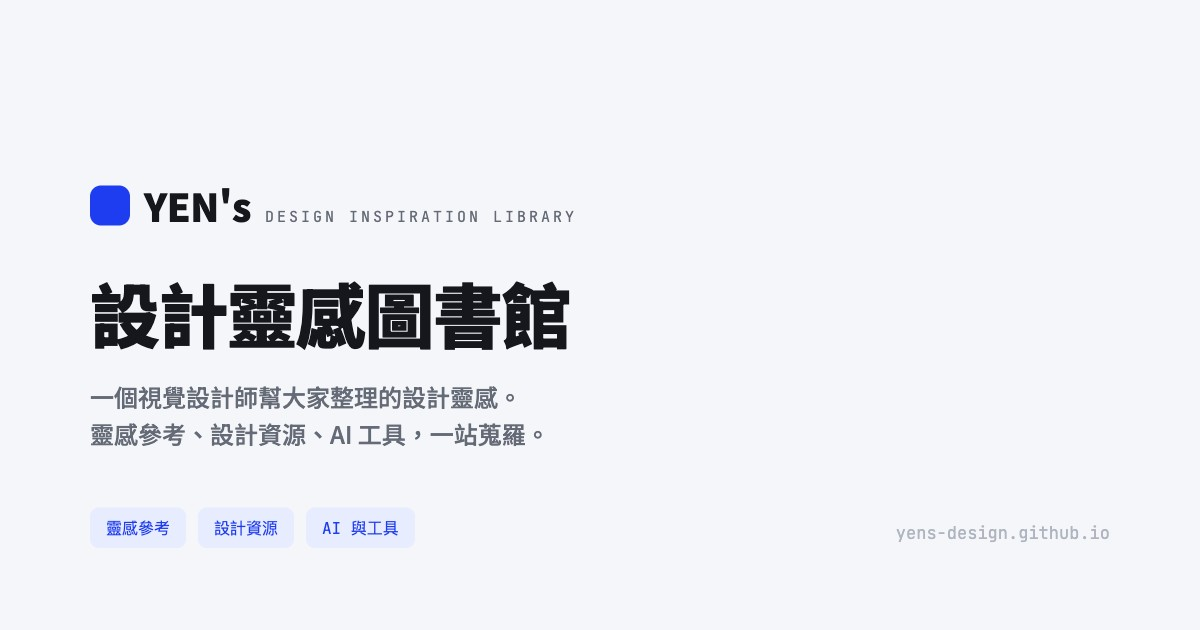
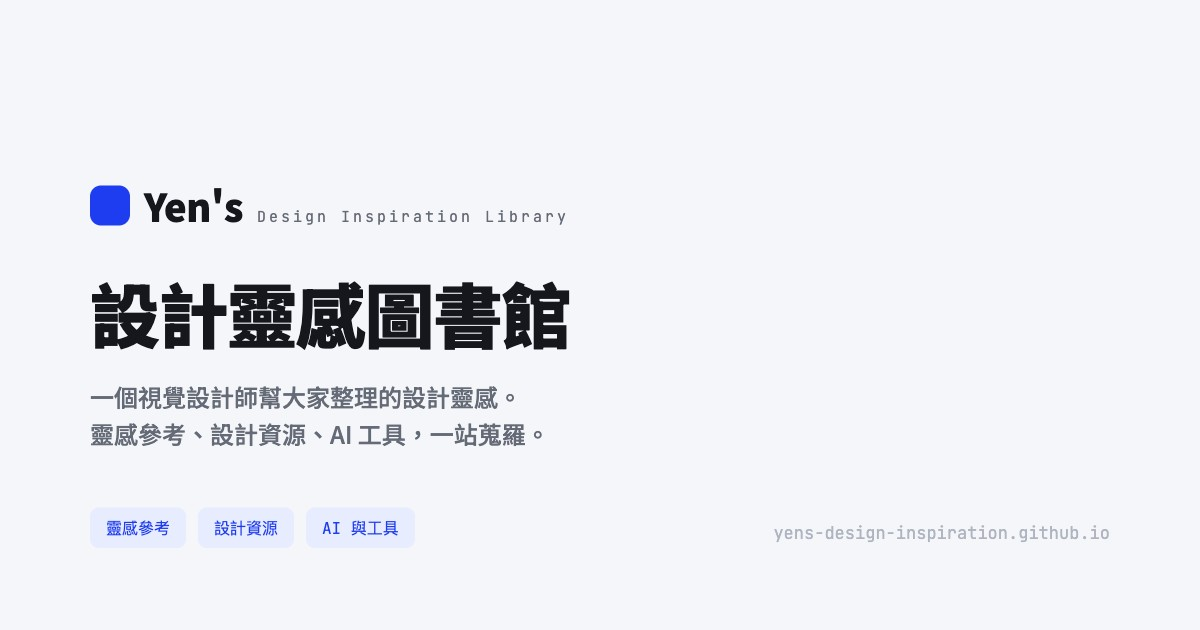
標題改 Title Case Yen's Design Inspiration Library、換新網域、重做分享卡

Changed region(s): [[0.1233, 0.3016, 0.4933, 0.3619], [0.6475, 0.8444, 0.8017, 0.8746]]

diff --git a/index.html b/index.html
@@ -3,19 +3,19 @@
 <head>
 <meta charset="UTF-8">
 <meta name="viewport" content="width=device-width, initial-scale=1.0">
-<title>YEN's Design Inspiration Library</title>
+<title>Yen's Design Inspiration Library</title>
 <meta name="description" content="一個視覺設計師幫大家整理的設計靈感。靈感參考、設計資源、AI 工具，一站蒐羅。">
 <meta property="og:type" content="website">
-<meta property="og:url" content="https://yens-design.github.io/">
-<meta property="og:title" content="YEN's Design Inspiration Library">
+<meta property="og:url" content="https://yens-design-inspiration.github.io/">
+<meta property="og:title" content="Yen's Design Inspiration Library">
 <meta property="og:description" content="一個視覺設計師幫大家整理的設計靈感。靈感參考、設計資源、AI 工具，一站蒐羅。">
-<meta property="og:image" content="https://yens-design.github.io/og.jpg">
+<meta property="og:image" content="https://yens-design-inspiration.github.io/og.jpg">
 <meta property="og:image:width" content="1200">
 <meta property="og:image:height" content="630">
 <meta name="twitter:card" content="summary_large_image">
-<meta name="twitter:title" content="YEN's Design Inspiration Library">
+<meta name="twitter:title" content="Yen's Design Inspiration Library">
 <meta name="twitter:description" content="一個視覺設計師幫大家整理的設計靈感。靈感參考、設計資源、AI 工具，一站蒐羅。">
-<meta name="twitter:image" content="https://yens-design.github.io/og.jpg">
+<meta name="twitter:image" content="https://yens-design-inspiration.github.io/og.jpg">
 <link rel="preconnect" href="https://fonts.googleapis.com">
 <link rel="preconnect" href="https://fonts.gstatic.com" crossorigin>
 <link href="https://fonts.googleapis.com/css2?family=JetBrains+Mono:wght@400;500&family=Noto+Sans+TC:wght@400;500;700;900&display=swap" rel="stylesheet">
@@ -191,7 +191,7 @@ body{background:var(--bg);color:var(--ink);font-family:var(--sans);font-size:15p
 <body>
 <div class="wrap">
   <div class="stickyhead"><div class="top">
-    <div class="brand"><span class="logo"><svg viewBox="0 0 24 24" xmlns="http://www.w3.org/2000/svg"><style>.spinner_OSmW{transform-origin:center;animation:spinner_T6mA .75s step-end infinite}@keyframes spinner_T6mA{8.3%{transform:rotate(30deg)}16.6%{transform:rotate(60deg)}25%{transform:rotate(90deg)}33.3%{transform:rotate(120deg)}41.6%{transform:rotate(150deg)}50%{transform:rotate(180deg)}58.3%{transform:rotate(210deg)}66.6%{transform:rotate(240deg)}75%{transform:rotate(270deg)}83.3%{transform:rotate(300deg)}91.6%{transform:rotate(330deg)}100%{transform:rotate(360deg)}}</style><g class="spinner_OSmW" fill="currentColor"><rect x="11" y="1" width="2" height="5" opacity=".14"/><rect x="11" y="1" width="2" height="5" transform="rotate(30 12 12)" opacity=".29"/><rect x="11" y="1" width="2" height="5" transform="rotate(60 12 12)" opacity=".43"/><rect x="11" y="1" width="2" height="5" transform="rotate(90 12 12)" opacity=".57"/><rect x="11" y="1" width="2" height="5" transform="rotate(120 12 12)" opacity=".71"/><rect x="11" y="1" width="2" height="5" transform="rotate(150 12 12)" opacity=".86"/><rect x="11" y="1" width="2" height="5" transform="rotate(180 12 12)"/></g></svg></span><span class="wordmark"><b>YEN's</b><small>DESIGN INSPIRATION LIBRARY</small></span></div>
+    <div class="brand"><span class="logo"><svg viewBox="0 0 24 24" xmlns="http://www.w3.org/2000/svg"><style>.spinner_OSmW{transform-origin:center;animation:spinner_T6mA .75s step-end infinite}@keyframes spinner_T6mA{8.3%{transform:rotate(30deg)}16.6%{transform:rotate(60deg)}25%{transform:rotate(90deg)}33.3%{transform:rotate(120deg)}41.6%{transform:rotate(150deg)}50%{transform:rotate(180deg)}58.3%{transform:rotate(210deg)}66.6%{transform:rotate(240deg)}75%{transform:rotate(270deg)}83.3%{transform:rotate(300deg)}91.6%{transform:rotate(330deg)}100%{transform:rotate(360deg)}}</style><g class="spinner_OSmW" fill="currentColor"><rect x="11" y="1" width="2" height="5" opacity=".14"/><rect x="11" y="1" width="2" height="5" transform="rotate(30 12 12)" opacity=".29"/><rect x="11" y="1" width="2" height="5" transform="rotate(60 12 12)" opacity=".43"/><rect x="11" y="1" width="2" height="5" transform="rotate(90 12 12)" opacity=".57"/><rect x="11" y="1" width="2" height="5" transform="rotate(120 12 12)" opacity=".71"/><rect x="11" y="1" width="2" height="5" transform="rotate(150 12 12)" opacity=".86"/><rect x="11" y="1" width="2" height="5" transform="rotate(180 12 12)"/></g></svg></span><span class="wordmark"><b>Yen's</b><small>Design Inspiration Library</small></span></div>
     <div class="tools">
       <button class="iconbtn" id="exportBtn">匯出</button>
       <button class="iconbtn" id="importBtn">匯入</button>
@@ -209,7 +209,7 @@ body{background:var(--bg);color:var(--ink);font-family:var(--sans);font-size:15p
   </div></div>
   <div class="tagfilter" id="tagFilter"></div>
   <div class="grid" id="grid"></div>
-  <div class="foot"><span id="footCount"></span><span class="footright"><span class="copyr">© 2026 YEN's Design Inspiration Library.</span><a id="sponsorLink" class="sponsor" target="_blank" rel="noopener" style="display:none"></a></span></div>
+  <div class="foot"><span id="footCount"></span><span class="footright"><span class="copyr">© 2026 Yen's Design Inspiration Library.</span><a id="sponsorLink" class="sponsor" target="_blank" rel="noopener" style="display:none"></a></span></div>
 </div>
 <div class="overlay" id="detailOverlay"><div class="sheet detail" id="detailSheet" role="dialog" aria-modal="true"></div></div>
 <div class="overlay" id="formOverlay">